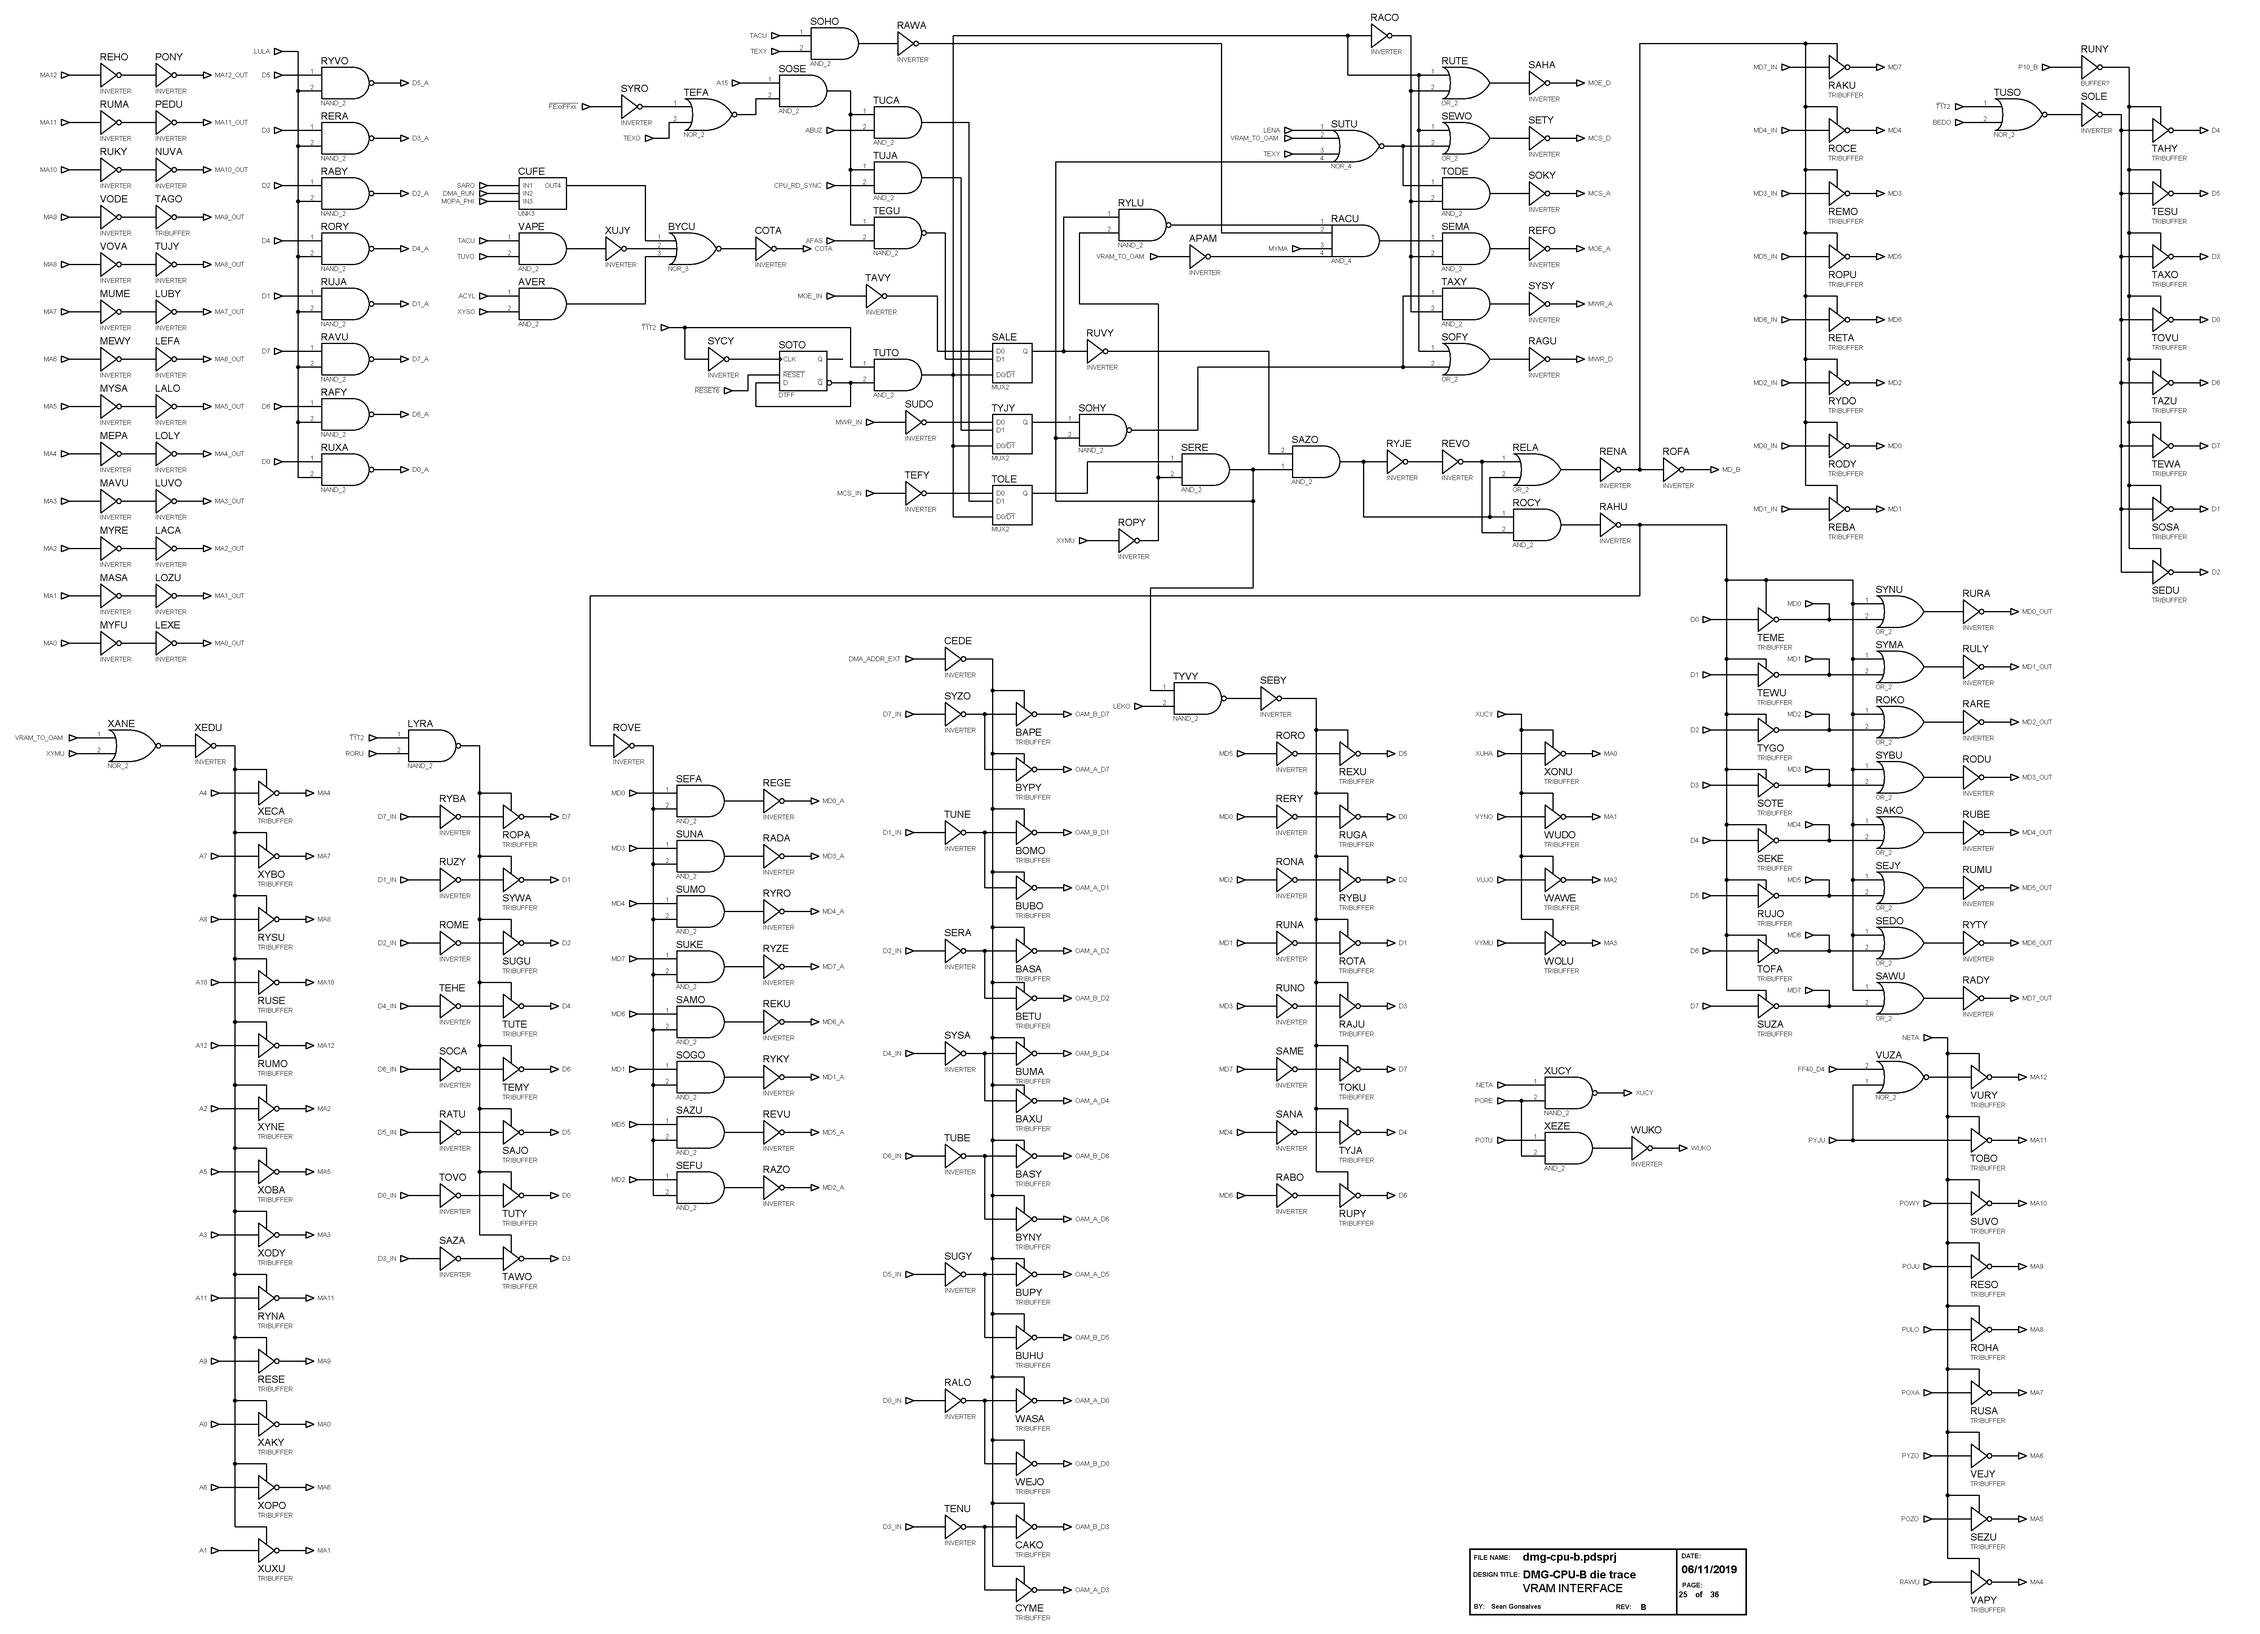
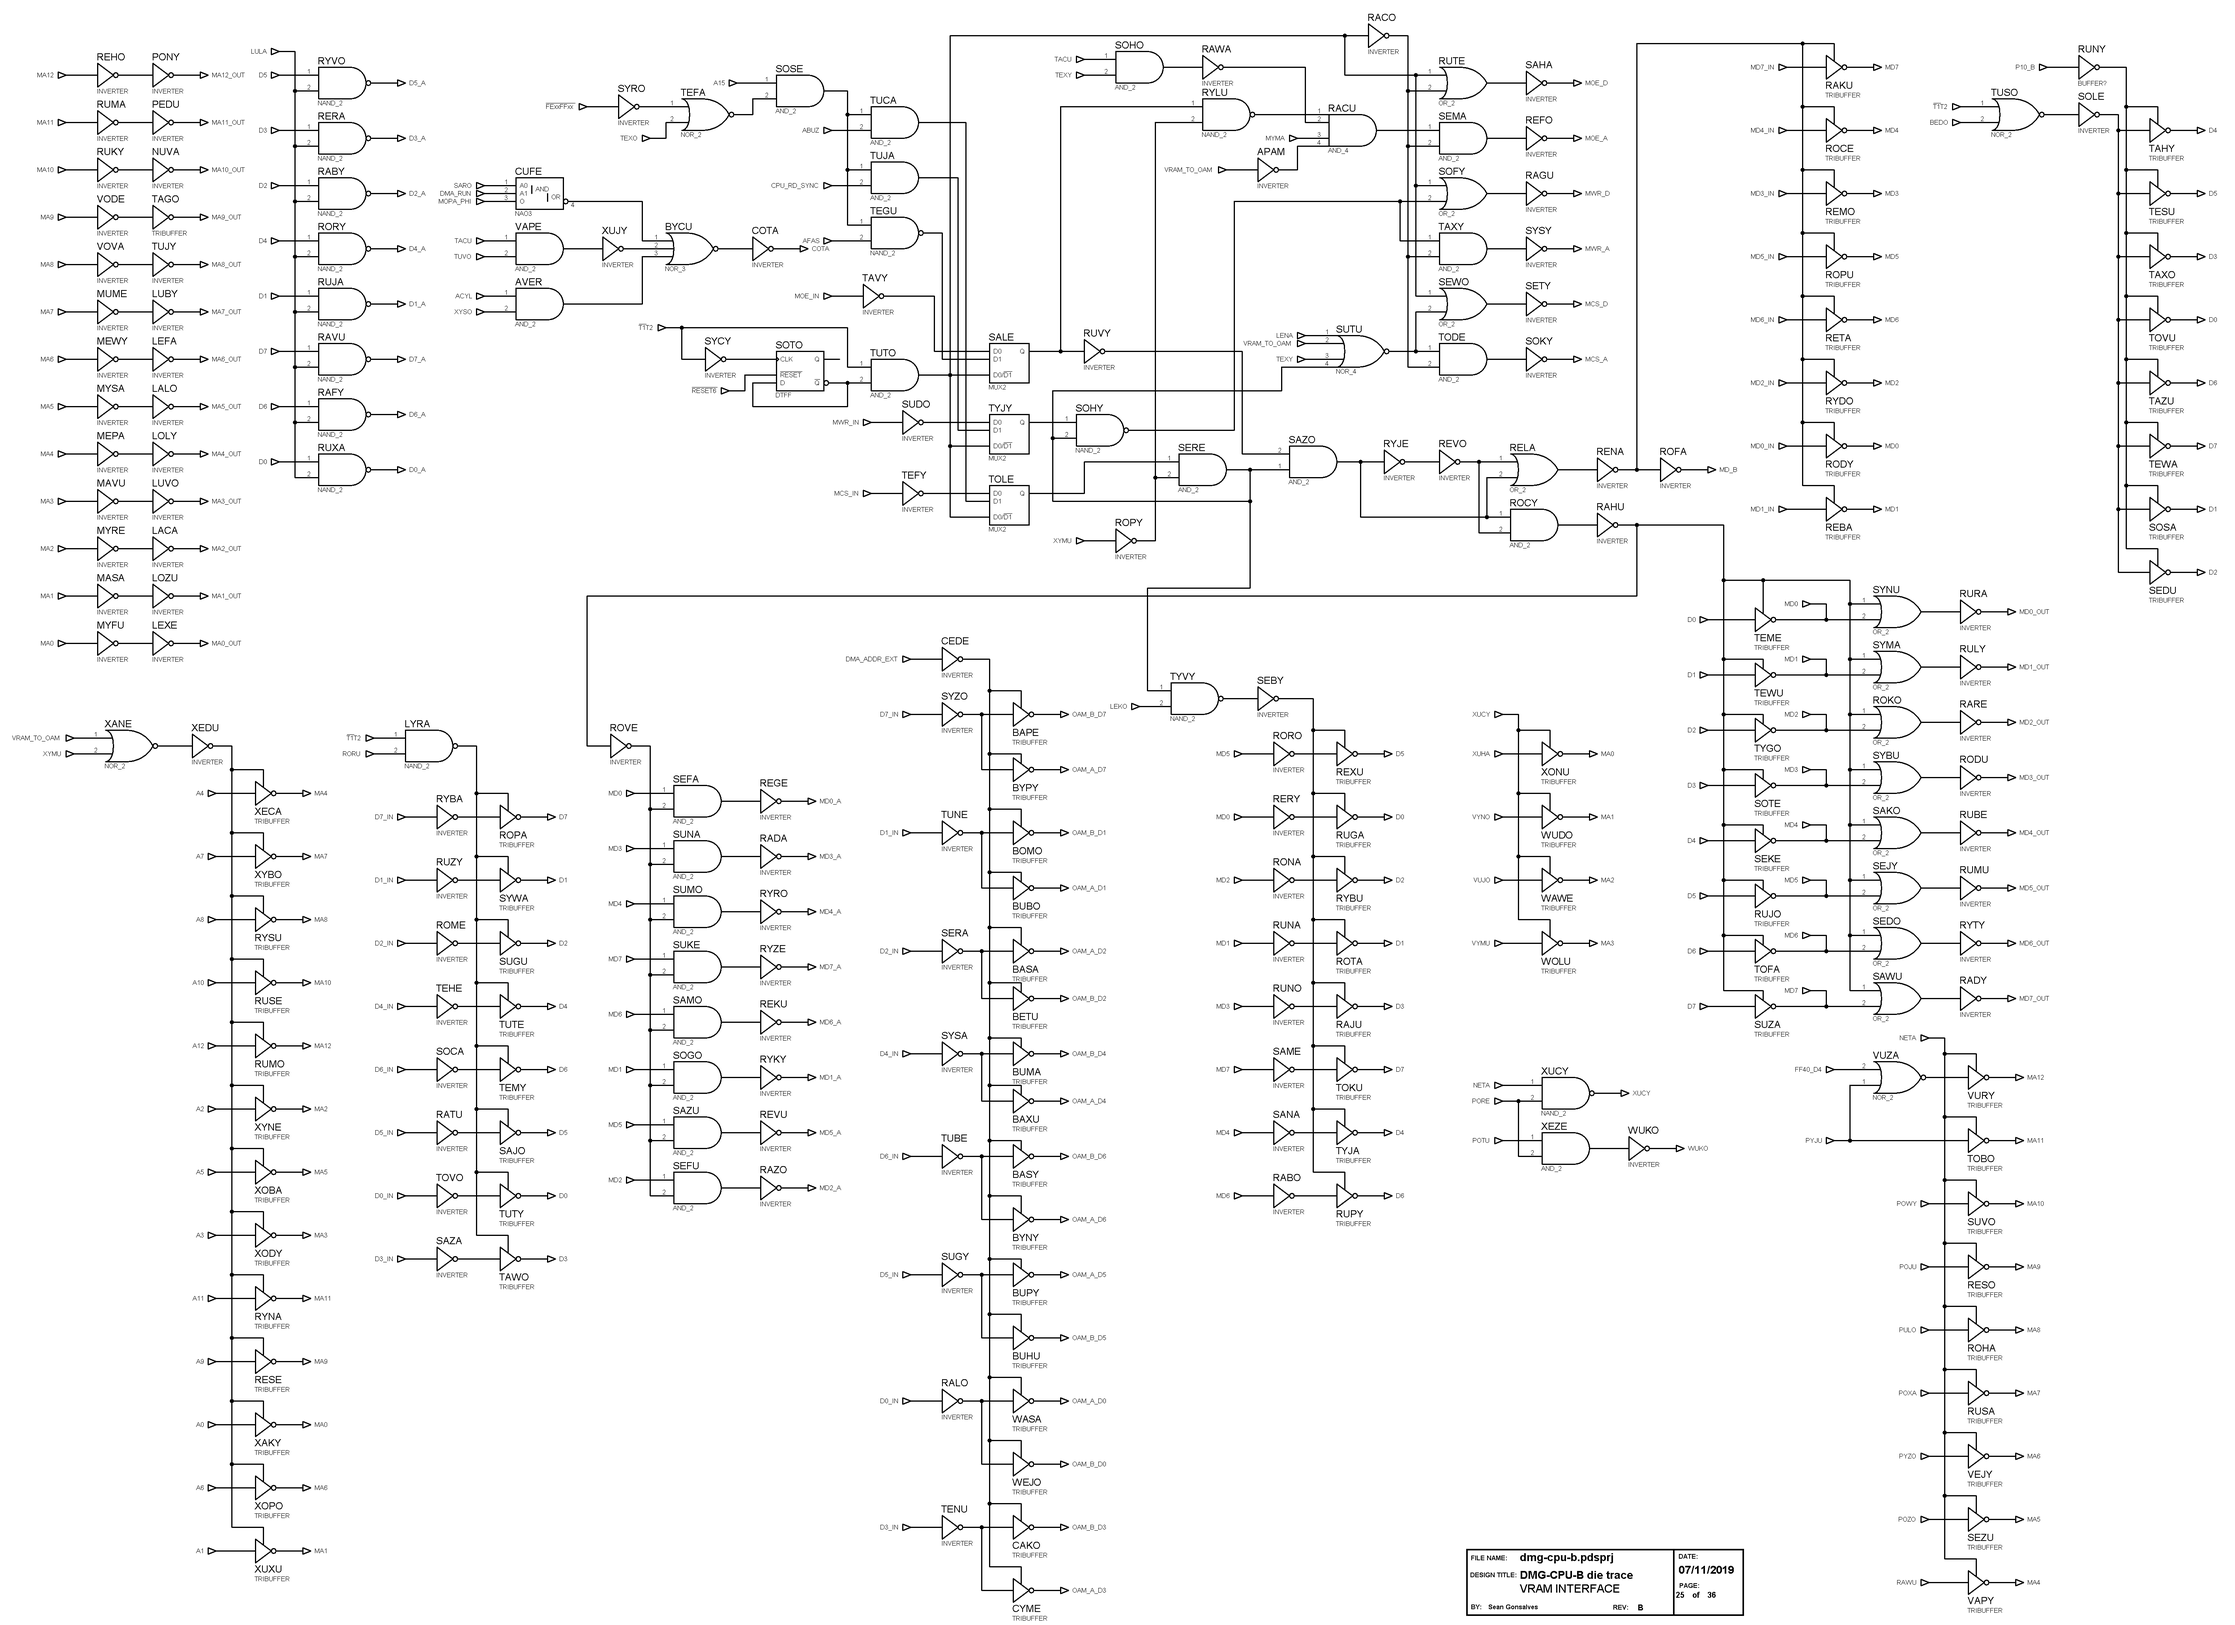
Updated CUFE cell in page 25 thanks to Kevin Murphy Updated cell zoo

diff --git a/README.md b/README.md
@@ -45,7 +45,6 @@ Rather than using multiplexers, many internal busses are instead tri-state capab
 
 # Mysteries
 
-* What does the CUFE cell do ?
 * Bit 4 and 5 of FF26 (NR52) can be written to.
   * Bit 4 sets NET03 (APU test mode ?).
   * Bit 5 allows software clocking of the CH1 sweep timer when NET03 is high.
@@ -91,3 +90,5 @@ Check out the [cell zoo](Cells/cell_zoo.jpg).
 Identifying the cells, isolating them, tracing the connections and the schematics took 191 hours.
 
 If you find it worth it, I accept donations through Paypal: [paypal.me/furrtek](https://www.paypal.me/furrtek)
+
+Thanks to Gekkio, Tanjent and Kevin Murphy for the help.
